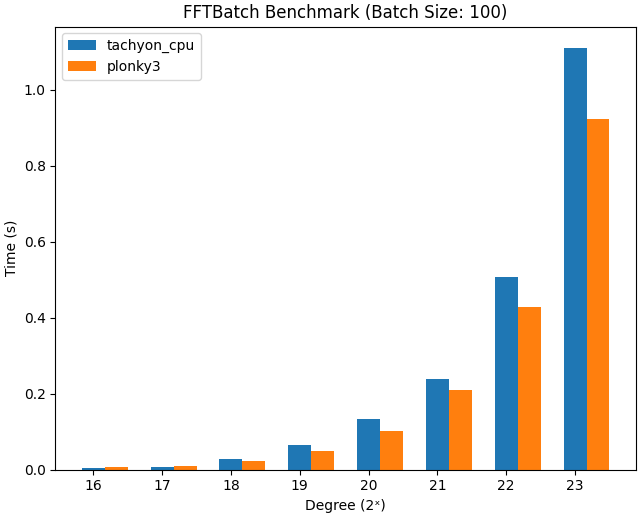
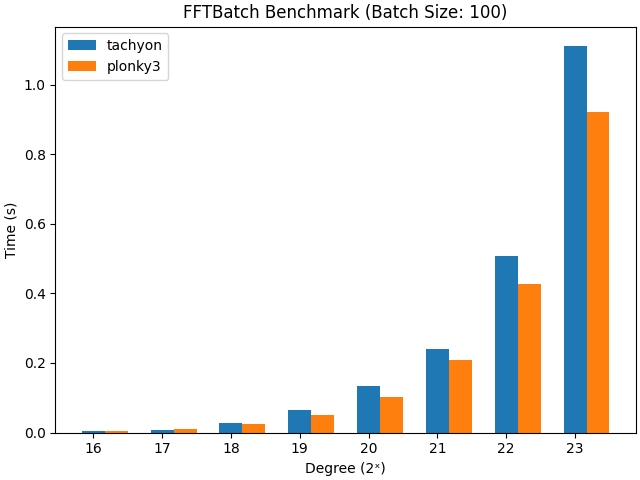
chore(benchmark): use `Vendor::kTachyon` when comparing CPU results

diff --git a/benchmark/fft/fft_benchmark.cc b/benchmark/fft/fft_benchmark.cc
@@ -108,12 +108,12 @@ void Run(const FFTConfig& config) {
   std::vector<RetPoly> halo2_results;
   if constexpr (std::is_same_v<PolyOrEvals, typename Domain::Evals>) {
     runner.set_domains(absl::MakeSpan(domains));
-    runner.Run(Vendor::TachyonCPU(),
+    runner.Run(Vendor::Tachyon(),
                tachyon_bn254_univariate_evaluation_domain_ifft_inplace, degrees,
                results, true);
     if (!halo2_domains.empty()) {
       runner.set_domains(absl::MakeSpan(halo2_domains));
-      runner.Run(Vendor::TachyonCPU(),
+      runner.Run(Vendor::Tachyon(),
                  tachyon_bn254_univariate_evaluation_domain_ifft_inplace,
                  degrees, halo2_results, false);
     }
@@ -142,12 +142,12 @@ void Run(const FFTConfig& config) {
   } else if constexpr (std::is_same_v<PolyOrEvals,
                                       typename Domain::DensePoly>) {
     runner.set_domains(absl::MakeSpan(domains));
-    runner.Run(Vendor::TachyonCPU(),
+    runner.Run(Vendor::Tachyon(),
                tachyon_bn254_univariate_evaluation_domain_fft_inplace, degrees,
                results, true);
     if (!halo2_domains.empty()) {
       runner.set_domains(absl::MakeSpan(halo2_domains));
-      runner.Run(Vendor::TachyonCPU(),
+      runner.Run(Vendor::Tachyon(),
                  tachyon_bn254_univariate_evaluation_domain_fft_inplace,
                  degrees, halo2_results, false);
     }

diff --git a/benchmark/vendor.h b/benchmark/vendor.h
@@ -18,6 +18,9 @@ class Vendor {
  public:
   enum Value : uint32_t {
     // clang-format off
+    // Use |kTachyon| when comparing CPU results across vendors.
+    kTachyon     = 1 << 0,
+    // Use |kTachyonCPU| and |kTachyonGPU| when comparing CPU and GPU results.
     kTachyonCPU  = 1 << 1,
     kTachyonGPU  = 1 << 2,
     kArkworks    = 1 << 3,
@@ -29,6 +32,7 @@ class Vendor {
     // clang-format on
   };
 
+  constexpr static Vendor Tachyon() { return Vendor(kTachyon); }
   constexpr static Vendor TachyonCPU() { return Vendor(kTachyonCPU); }
   constexpr static Vendor TachyonGPU() { return Vendor(kTachyonGPU); }
   constexpr static Vendor Arkworks() { return Vendor(kArkworks); }
@@ -48,6 +52,8 @@ class Vendor {
 
   std::string_view ToString() const {
     switch (value_) {
+      case Vendor::kTachyon:
+        return "tachyon";
       case Vendor::kTachyonCPU:
         return "tachyon_cpu";
       case Vendor::kTachyonGPU:

diff --git a/benchmark/poseidon2/poseidon2_benchmark_runner.h b/benchmark/poseidon2/poseidon2_benchmark_runner.h
@@ -33,7 +33,7 @@ class Poseidon2BenchmarkRunner {
       : reporter_(reporter), config_(config) {}
 
   Field Run(const crypto::Poseidon2Config<Field>& config) {
-    reporter_.AddVendor(Vendor::TachyonCPU());
+    reporter_.AddVendor(Vendor::Tachyon());
     Field ret = Field::Zero();
     for (size_t i = 0; i < config_.repeating_num(); ++i) {
       crypto::Poseidon2Sponge<crypto::Poseidon2ExternalMatrix<
@@ -44,7 +44,7 @@ class Poseidon2BenchmarkRunner {
       for (size_t j = 0; j < 100; ++j) {
         sponge.Permute(state);
       }
-      reporter_.AddTime(Vendor::TachyonCPU(), base::TimeTicks::Now() - start);
+      reporter_.AddTime(Vendor::Tachyon(), base::TimeTicks::Now() - start);
       if (i == 0) {
         ret = state.elements[1];
       }

diff --git a/benchmark/poseidon/poseidon_benchmark_runner.h b/benchmark/poseidon/poseidon_benchmark_runner.h
@@ -32,7 +32,7 @@ class PoseidonBenchmarkRunner {
       : reporter_(reporter), config_(config) {}
 
   Field Run() {
-    reporter_.AddVendor(Vendor::TachyonCPU());
+    reporter_.AddVendor(Vendor::Tachyon());
     Field ret;
     for (size_t i = 0; i < config_.repeating_num(); ++i) {
       crypto::PoseidonConfig<Field> config =
@@ -41,7 +41,7 @@ class PoseidonBenchmarkRunner {
       crypto::SpongeState<Field> state(sponge.config);
       base::TimeTicks start = base::TimeTicks::Now();
       sponge.Permute(state);
-      reporter_.AddTime(Vendor::TachyonCPU(), base::TimeTicks::Now() - start);
+      reporter_.AddTime(Vendor::Tachyon(), base::TimeTicks::Now() - start);
       if (i == 0) {
         ret = state.elements[1];
       }

diff --git a/benchmark/msm/msm_benchmark.cc b/benchmark/msm/msm_benchmark.cc
@@ -64,7 +64,7 @@ int RealMain(int argc, char** argv) {
   MSMRunner<bn254::G1AffinePoint> runner(reporter);
   runner.SetInputs(test_set.bases, test_set.scalars);
   std::vector<bn254::G1JacobianPoint> results;
-  runner.Run(Vendor::TachyonCPU(), tachyon_bn254_g1_affine_msm, msm, point_nums,
+  runner.Run(Vendor::Tachyon(), tachyon_bn254_g1_affine_msm, msm, point_nums,
              results);
   for (Vendor vendor : config.vendors()) {
     std::vector<bn254::G1JacobianPoint> results_vendor;

diff --git a/benchmark/fft_batch/fft_batch_benchmark.cc b/benchmark/fft_batch/fft_batch_benchmark.cc
@@ -69,7 +69,7 @@ int Run(const FFTBatchConfig& config) {
   runner.set_inputs(absl::MakeSpan(inputs));
 
   std::vector<math::RowMajorMatrix<F>> results;
-  runner.Run(Vendor::TachyonCPU(), results, config.run_coset_lde());
+  runner.Run(Vendor::Tachyon(), results, config.run_coset_lde());
   for (Vendor vendor : config.vendors()) {
     std::vector<math::RowMajorMatrix<F>> results_vendor;
     if (vendor.value() == Vendor::kPlonky3) {

diff --git a/benchmark/fft_batch/README.md b/benchmark/fft_batch/README.md
@@ -25,7 +25,7 @@ bazel run -c opt --//:has_openmp --//:has_rtti --//:has_matplotlib //benchmark/f
 
 #### On Intel i9-13900K
 
-| Exponent | TachyonCPU   | Plonky3      |
+| Exponent | Tachyon      | Plonky3      |
 | :------- | ------------ | ------------ |
 | 16       | **0.003543** | 0.005809     |
 | 17       | **0.007168** | 0.009239     |
@@ -40,7 +40,7 @@ bazel run -c opt --//:has_openmp --//:has_rtti --//:has_matplotlib //benchmark/f
 
 #### On Mac M3 Pro
 
-| Exponent | TachyonCPU   | Plonky3  |
+| Exponent | Tachyon      | Plonky3  |
 | :------- | ------------ | -------- |
 | 16       | **0.007926** | 0.01639  |
 | 17       | **0.016391** | 0.024321 |
@@ -61,7 +61,7 @@ bazel run -c opt --//:has_openmp --//:has_rtti --//:has_matplotlib //benchmark/f
 
 #### On Intel i9-13900K
 
-| Exponent | TachyonCPU   | Plonky3  |
+| Exponent | Tachyon      | Plonky3  |
 | :------- | ------------ | -------- |
 | 16       | **0.008384** | 0.018529 |
 | 17       | **0.017164** | 0.043266 |
@@ -76,7 +76,7 @@ bazel run -c opt --//:has_openmp --//:has_rtti --//:has_matplotlib //benchmark/f
 
 #### On Mac M3 Pro
 
-| Exponent | TachyonCPU   | Plonky3      |
+| Exponent | Tachyon      | Plonky3      |
 | :------- | ------------ | ------------ |
 | 16       | **0.013503** | 0.020251     |
 | 17       | **0.028850** | 0.044731     |
